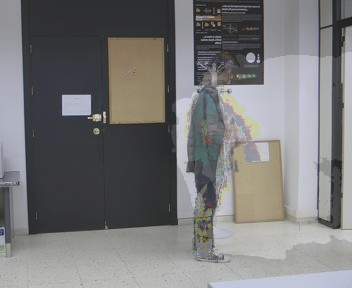
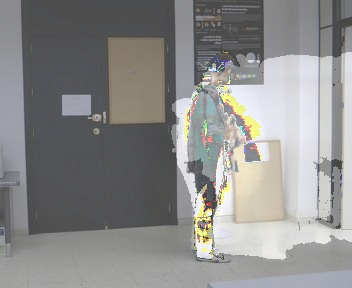
added pool results for bmm, mode and average

diff --git a/src/bgModels.py b/src/bgModels.py
@@ -1,3 +1,4 @@
+from collections.abc import Callable
 import numpy as np
 import cv2
 
@@ -122,7 +123,7 @@ def frameDifferenceMostFreq(imgArr, diffThreshold=30):
 
     return mostFreq
 
-def gmm_background_subtraction(imgArr):
+def gmm(imgArr):
     """
     Apply Gaussian Mixture Model (GMM) for background subtraction.
     
@@ -157,7 +158,7 @@ def gmm_background_subtraction(imgArr):
 
     return fgmask
 
-def pool(imgArr, pooling_method='mean'):
+def pool(imgArr, candiadateFuncs : list[Callable], pooling_method='mean'):
     """
     Apply various background modeling techniques and pool their results.
 
@@ -168,15 +169,8 @@ def pool(imgArr, pooling_method='mean'):
     Returns:
         numpy.ndarray: The pooled background model image.
     """
-    # Apply all background modeling techniques
-    avg_result = average(imgArr)
-    median_result = median(imgArr)
-    mode_result = mode(imgArr)
-    most_freq_result = mostFreq(imgArr)
-    gmm_result = gmm_background_subtraction(imgArr)
-
     # Stack all results into a single array for pooling
-    results = np.array([avg_result, median_result, mode_result, most_freq_result, gmm_result])
+    results = np.array([func(imgArr) for func in candiadateFuncs])
 
     # Apply the specified pooling method
     if pooling_method == 'mean':

diff --git a/src/main.py b/src/main.py
@@ -32,7 +32,10 @@ if __name__ == '__main__':
                 
                 if method == 'pool' :
                     poolerType = sys.argv[2]
-                    imgBg = bgFunc(imgArr, poolerType)
+                    poolerMethodNames = sys.argv[3:]
+                    candidateFuncs = [ getattr(bgModels, methodName) for methodName in poolerMethodNames ]
+
+                    imgBg = bgFunc(imgArr, candidateFuncs, poolerType)
                 else :
                     imgBg = bgFunc(imgArr)
                 os.makedirs(os.path.join(resultsPath, method, category, video), exist_ok=True)
